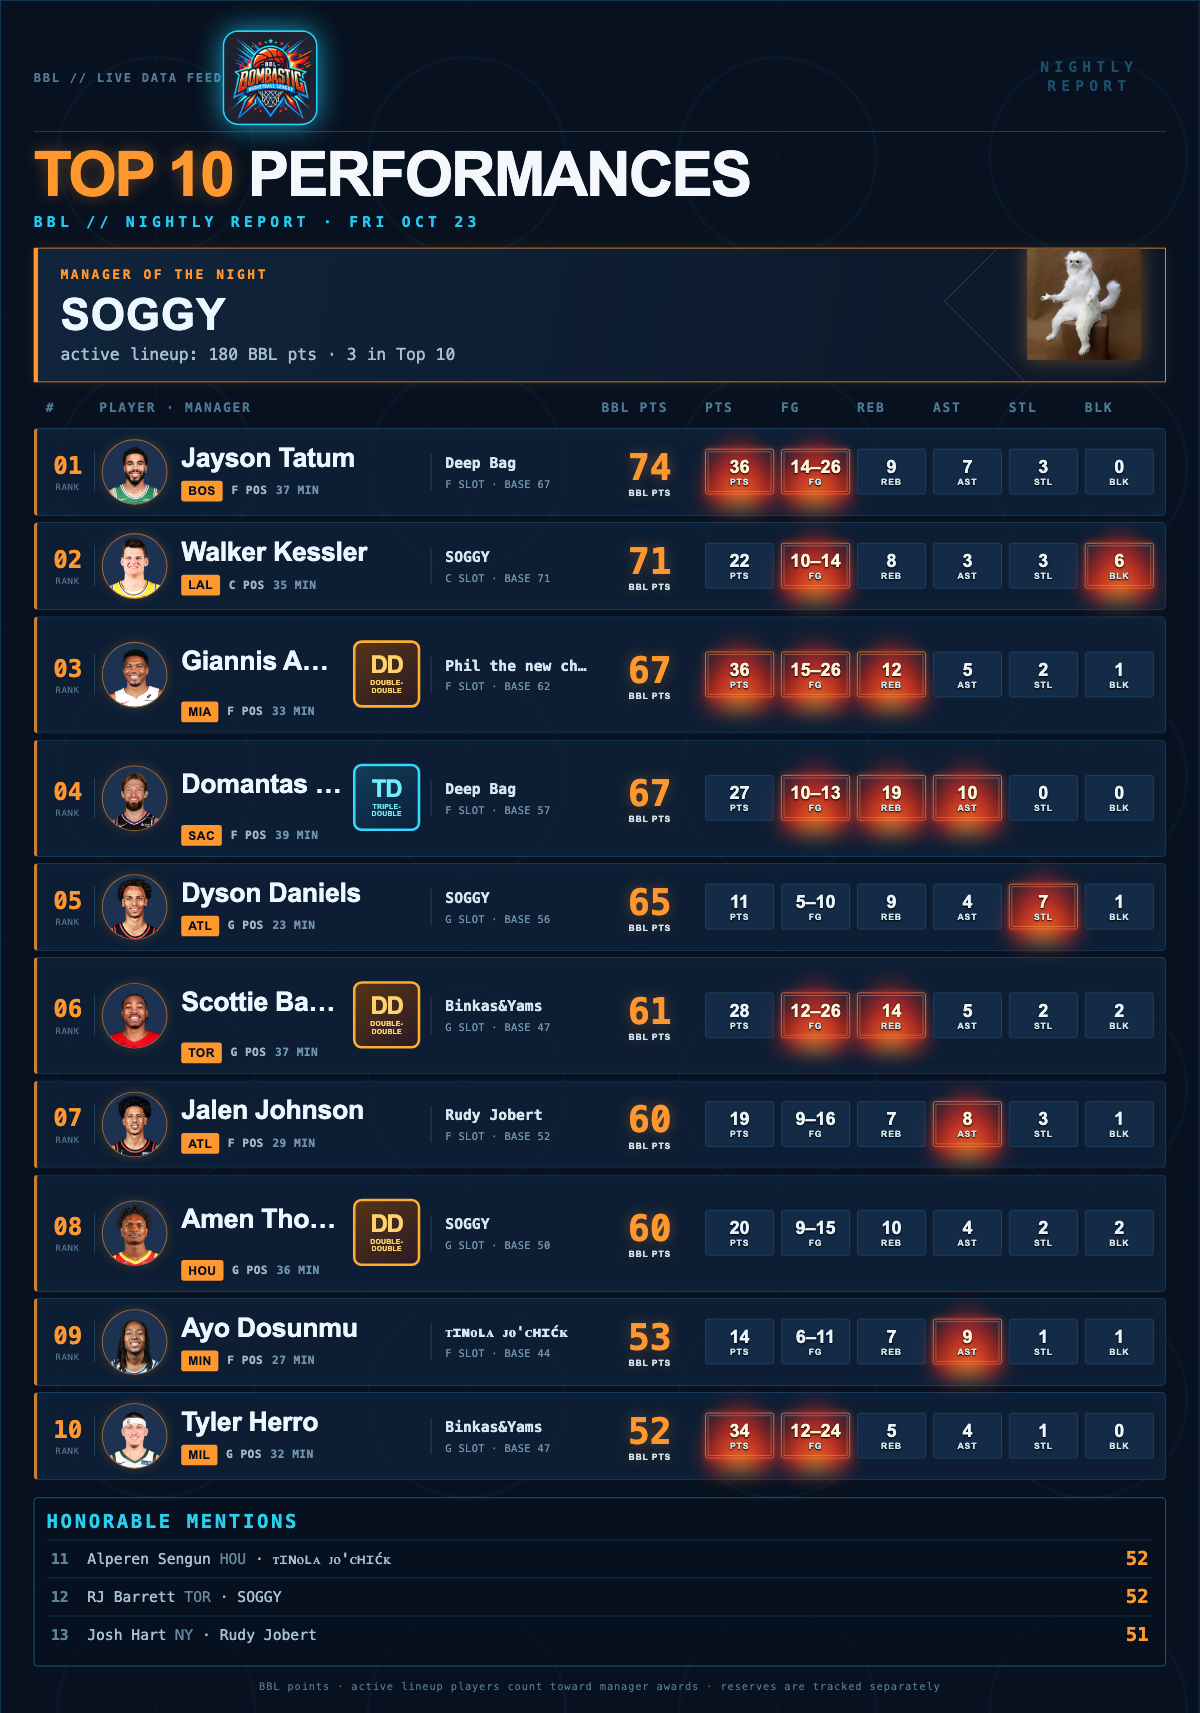
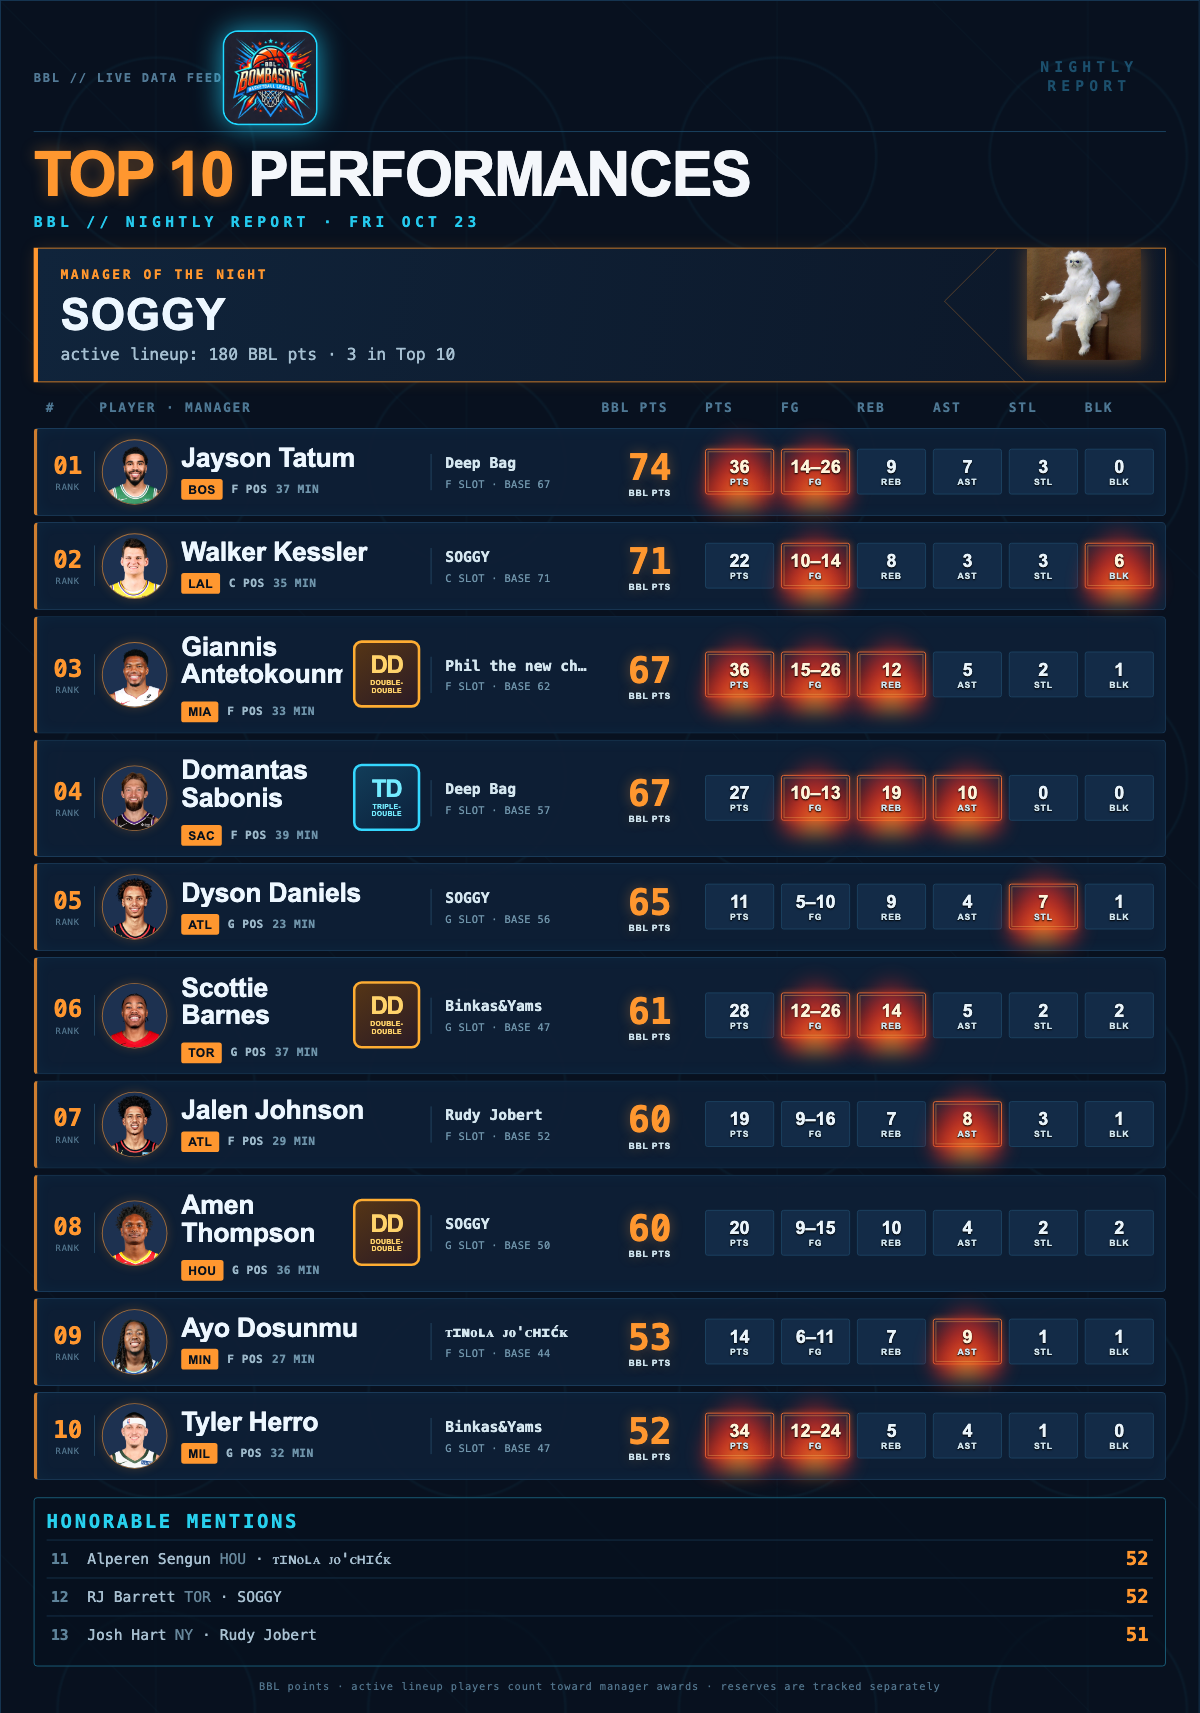
Allow player names to wrap to two lines

diff --git a/bbl/social_cards.py b/bbl/social_cards.py
@@ -149,7 +149,7 @@ h1{{font-size:62px;line-height:.9;margin:0;color:#f4f7fb;letter-spacing:-2px;tex
 .label{{font:700 14px monospace;letter-spacing:3px;color:{accent};text-transform:uppercase}}.award h2{{font-size:42px;letter-spacing:1px;margin:7px 0 3px}}.award p{{font:17px monospace;margin:0;color:#a6c0d2}}
 .cols,.row{{display:grid;grid-template-columns:54px 1fr 112px {stat_columns};gap:8px;align-items:center}}.cols{{padding:0 14px 6px;color:#4e7894;font:700 13px monospace;letter-spacing:2px;text-transform:uppercase}}
 .row{{background:rgba(14,31,53,.94);border:1px solid #1b3c5b;border-left:4px solid {accent}cc;border-radius:5px;padding:9px 12px;margin:6px 0;box-shadow:inset 0 0 18px rgba(30,170,230,.05)}}.row:hover{{border-color:{accent}}}.rank{{font:700 24px monospace;color:{accent};text-align:center;border-right:1px solid #244965;padding-right:8px}}.rank small{{display:block;font:9px monospace;color:#52758d;letter-spacing:1px;margin-top:3px}}
- .who{{display:grid;grid-template-columns:70px minmax(0,1fr) 190px;gap:12px;align-items:center;min-width:0}}.who b{{display:block;font-size:24px;letter-spacing:-.4px;white-space:nowrap;overflow:hidden;text-overflow:ellipsis}}.headshot{{width:66px;height:66px;object-fit:cover;border-radius:50%;background:#1d3150;border:1px solid {accent}99;box-shadow:0 0 12px {accent}33}}.headshot.placeholder{{background:linear-gradient(135deg,#162c47,#0a1627)}}.name-line{{display:flex;align-items:center;gap:12px;min-width:0}}.name-line b{{min-width:0}}.player-meta{{display:flex;align-items:center;gap:8px;margin-top:6px;white-space:nowrap}}.who .team{{display:inline-block;color:#07111e;background:{accent};border-radius:3px;padding:3px 7px;font:800 12px Arial,sans-serif;letter-spacing:.6px}}.position,.minutes{{color:#9db9ca;font:700 12px monospace;letter-spacing:.5px}}.minutes{{color:#6f94aa}}.badge{{display:inline-flex;align-self:center;flex:0 0 auto;width:78px;height:78px;align-items:center;justify-content:center;flex-direction:column;gap:3px;padding:5px;border:3px solid;border-radius:10px;font:900 10px Arial,sans-serif;letter-spacing:.2px;white-space:normal;text-align:center;box-shadow:inset 0 0 15px #ffffff18,0 0 16px currentColor77;transform:translateY(15px)}}.badge i{{display:block;background:none;font:900 28px/27px Arial,sans-serif;font-style:normal;letter-spacing:-1.5px}}.badge strong{{display:block;font:900 8px/9px Arial,sans-serif;letter-spacing:.2px;max-width:66px}}.badge-triple{{color:#74ecff;border-color:#35d8ff;background:linear-gradient(145deg,#123d59,#0b203b)}}.badge-double{{color:#ffd36b;border-color:#ffad32;background:linear-gradient(145deg,#553516,#2b1b25)}}.badge-cardio{{color:#d8b8ff;border-color:#b477ff;background:linear-gradient(145deg,#3b245b,#211b3b)}}.badge-brick{{color:#aef5ff;border-color:#5ddcff;background:linear-gradient(145deg,#164b63,#12253f)}}.details{{min-width:0;border-left:1px solid #244965;padding-left:14px}}.details small{{display:block;color:#d5e7f0;font:700 15px monospace;white-space:nowrap;overflow:hidden;text-overflow:ellipsis}}.details em{{display:block;color:#6f94aa;font:11px monospace;font-style:normal;margin-top:7px;letter-spacing:.4px;white-space:nowrap}}
+ .who{{display:grid;grid-template-columns:70px minmax(0,1fr) 190px;gap:12px;align-items:center;min-width:0}}.who b{{display:-webkit-box;font-size:24px;line-height:1.02;letter-spacing:-.4px;white-space:normal;overflow:hidden;text-overflow:clip;-webkit-line-clamp:2;-webkit-box-orient:vertical}}.headshot{{width:66px;height:66px;object-fit:cover;border-radius:50%;background:#1d3150;border:1px solid {accent}99;box-shadow:0 0 12px {accent}33}}.headshot.placeholder{{background:linear-gradient(135deg,#162c47,#0a1627)}}.name-line{{display:flex;align-items:center;gap:12px;min-width:0}}.name-line b{{min-width:0}}.player-meta{{display:flex;align-items:center;gap:8px;margin-top:6px;white-space:nowrap}}.who .team{{display:inline-block;color:#07111e;background:{accent};border-radius:3px;padding:3px 7px;font:800 12px Arial,sans-serif;letter-spacing:.6px}}.position,.minutes{{color:#9db9ca;font:700 12px monospace;letter-spacing:.5px}}.minutes{{color:#6f94aa}}.badge{{display:inline-flex;align-self:center;flex:0 0 auto;width:78px;height:78px;align-items:center;justify-content:center;flex-direction:column;gap:3px;padding:5px;border:3px solid;border-radius:10px;font:900 10px Arial,sans-serif;letter-spacing:.2px;white-space:normal;text-align:center;box-shadow:inset 0 0 15px #ffffff18,0 0 16px currentColor77;transform:translateY(15px)}}.badge i{{display:block;background:none;font:900 28px/27px Arial,sans-serif;font-style:normal;letter-spacing:-1.5px}}.badge strong{{display:block;font:900 8px/9px Arial,sans-serif;letter-spacing:.2px;max-width:66px}}.badge-triple{{color:#74ecff;border-color:#35d8ff;background:linear-gradient(145deg,#123d59,#0b203b)}}.badge-double{{color:#ffd36b;border-color:#ffad32;background:linear-gradient(145deg,#553516,#2b1b25)}}.badge-cardio{{color:#d8b8ff;border-color:#b477ff;background:linear-gradient(145deg,#3b245b,#211b3b)}}.badge-brick{{color:#aef5ff;border-color:#5ddcff;background:linear-gradient(145deg,#164b63,#12253f)}}.details{{min-width:0;border-left:1px solid #244965;padding-left:14px}}.details small{{display:block;color:#d5e7f0;font:700 15px monospace;white-space:nowrap;overflow:hidden;text-overflow:ellipsis}}.details em{{display:block;color:#6f94aa;font:11px monospace;font-style:normal;margin-top:7px;letter-spacing:.4px;white-space:nowrap}}
 .score{{color:{accent};font:800 31px monospace;text-align:center;text-shadow:0 0 15px {accent}55}}.score small,.stat small{{display:block;font:8px monospace;color:#7394aa;letter-spacing:1px}}.stat{{position:relative;z-index:1;background:#132b47;border:1px solid #1d4564;border-radius:3px;text-align:center;padding:5px 2px;font:700 16px monospace;overflow:visible;isolation:isolate}}.stat.hot{{border:2px solid #ffad32;box-shadow:0 0 5px #ffb000,0 0 15px #ff4b1f99;color:#fff8dd;background:linear-gradient(180deg,#5b2417,#261925)}}.stat.hot:before{{content:"";position:absolute;z-index:-1;left:-8px;right:-8px;top:-15px;bottom:-9px;background:linear-gradient(150deg,#ffd45a 0 10%,transparent 11% 22%,#ff7a18 23% 35%,transparent 36% 49%,#ff3219 50% 64%,transparent 65% 78%,#ff9b20 79% 90%,transparent 91%);clip-path:polygon(0 100%,3% 54%,16% 68%,18% 20%,29% 52%,42% 0,53% 49%,66% 14%,75% 53%,89% 5%,94% 59%,100% 35%,100% 100%);filter:drop-shadow(0 0 8px #ff4b1f);pointer-events:none}}.stat.hot:after{{content:"";position:absolute;inset:2px;border:1px solid #ffd36b99;background:linear-gradient(180deg,transparent,#ff5a1a33);pointer-events:none}}.stat.cold{{border:2px solid #b9fbff;box-shadow:0 0 6px #b9fbff,0 0 18px #28cfff99;color:#edffff;background:linear-gradient(135deg,#d8ffff 0 4%,#3caed2 6% 12%,#153b5b 13% 82%,#0a223b 83%)}}.stat.cold:before{{content:"";position:absolute;z-index:-1;inset:-7px;background:linear-gradient(135deg,#dfffff,#55e9ff 20%,#135b88 48%,#a9f8ff 72%,#1b719c);clip-path:polygon(0 8%,18% 15%,28% 0,43% 13%,59% 3%,74% 17%,100% 7%,88% 31%,100% 50%,87% 66%,100% 93%,76% 84%,63% 100%,48% 87%,28% 100%,19% 85%,0 94%,11% 69%,0 51%,12% 32%);filter:drop-shadow(0 0 7px #46eaff);pointer-events:none}}.stat.cold:after{{content:"";position:absolute;inset:2px;background:linear-gradient(125deg,transparent 27%,#e7ffff99 28% 31%,transparent 32% 56%,#bdfaff77 57% 60%,transparent 61%);pointer-events:none}}.stat span{{position:relative;z-index:1}}.stat small{{position:relative;z-index:1}}.stat:not(.hot):not(.cold) span{{color:#e9f4fb}}.stat:not(.hot):not(.cold){{color:#fff}}
 .section{{border:1px solid #1c6682;border-radius:4px;margin-top:18px;padding:13px;background:rgba(5,17,31,.72)}}.section h3{{color:#28d0ed;font:700 19px monospace;letter-spacing:3px;margin:0 0 8px}}.mention{{display:grid;grid-template-columns:42px 1fr 70px;align-items:center;border-top:1px solid #17354e;padding:8px 4px;color:#a8c0d1;font:15px monospace}}.mention b{{color:#5e839a}}.mention i{{font-style:normal;color:#66869a}}.mention strong{{color:{accent};text-align:right;font:700 20px monospace}}
  footer{{margin-top:18px;text-align:center;color:#52758d;font:11px monospace;letter-spacing:1px}}
